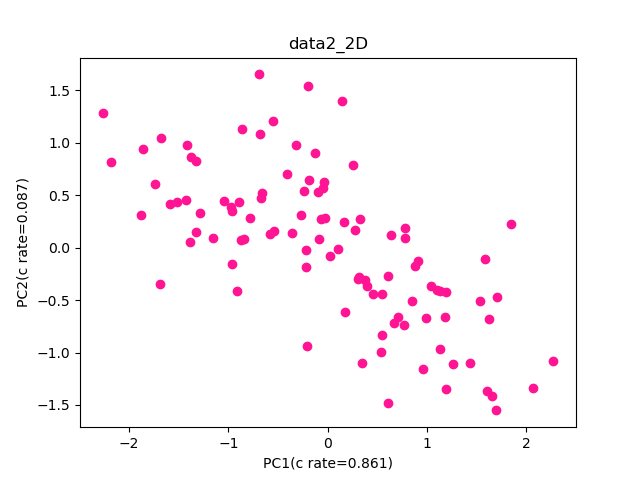
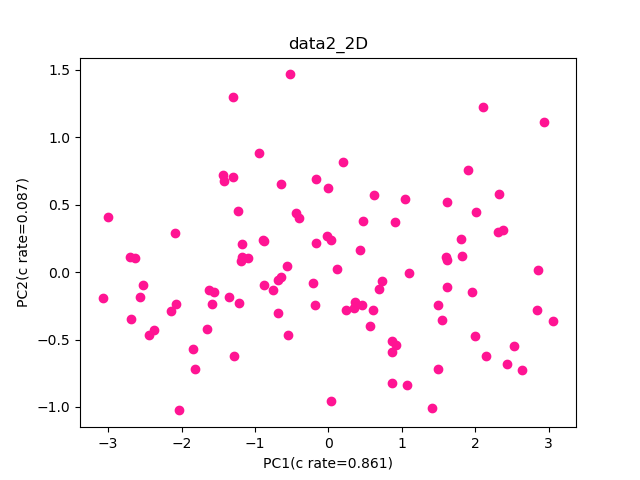
modify eigen

diff --git a/ex6/s_tokida/ex6.py b/ex6/s_tokida/ex6.py
@@ -9,7 +9,7 @@ from PIL import Image
 def pca(data):
     """principal component analysis
     Args:
-        data (pandas.core.frame.DataFrame): imput data
+        data (pandas.core.frame.DataFrame): input data
     Returns:
         eigen_sorted (ndarray): eigenvalue and eigenvector (sorted)
         c_rate (ndarray): contribution rate
@@ -17,20 +17,20 @@ def pca(data):
 
     cov_matrix = np.cov(data.T)
     eigen_val, eigen_vec = np.linalg.eig(cov_matrix)
-    eigen = np.hstack([eigen_val[:, np.newaxis], eigen_vec])
+    eigen = np.hstack([eigen_val[:, np.newaxis], eigen_vec.T])
     # sort by eigen_val
     eigen_sorted = np.array(sorted(eigen, key=lambda x: x[0], reverse=True))
-
+    eigen_vec_sorted = eigen_sorted[:, 1:].T
     # calculate contribution rate
     c_rate = eigen_sorted[:, 0] / sum(eigen_sorted[:, 0])
 
-    return eigen_sorted, c_rate
+    return eigen_vec_sorted, c_rate
 
 
 def render_frame(data, eigen, c_rate, angle, filename):
     """define render frame to make gif
     Args:
-        df (ndarray): imput data
+        df (ndarray): input data
         angle (int): angle
         filename (str): filename
     Returns:
@@ -43,9 +43,9 @@ def render_frame(data, eigen, c_rate, angle, filename):
     x1 = np.linspace(min(data[:, 0]), max(data[:, 0]), data.shape[0])
     eigen_x2 = eigen[1] / eigen[0]
     eigen_x3 = eigen[2] / eigen[0]
-    ax.plot(x1, eigen_x2[1]*x1, eigen_x3[1]*x1, color = 'y', label = f'c rate={c_rate[0]:.3f}')
-    ax.plot(x1, eigen_x2[2]*x1, eigen_x3[2]*x1, color = 'm', label = f'c rate={c_rate[1]:.3f}')
-    ax.plot(x1, eigen_x2[3]*x1, eigen_x3[3]*x1, color = 'c', label = f'c rate={c_rate[2]:.3f}')
+    ax.plot(x1, eigen_x2[0]*x1, eigen_x3[0]*x1, color = 'c', label = f'c rate={c_rate[0]:.3f}')
+    ax.plot(x1, eigen_x2[1]*x1, eigen_x3[1]*x1, color = 'y', label = f'c rate={c_rate[1]:.3f}')
+    ax.plot(x1, eigen_x2[2]*x1, eigen_x3[2]*x1, color = 'm', label = f'c rate={c_rate[2]:.3f}')
 
     ax.view_init(30, angle)
     plt.close()
@@ -88,8 +88,8 @@ def main():
         # ax.quiver(vec_s[0], vec_s[1], eigen[1][1], eigen[1][2], angles='xy', scale_units='xy', scale=1, color = 'pink')
         
         eigen_x2 = eigen[1] / eigen[0]
-        ax.plot(x1, eigen_x2[1]*x1, color = 'c', label = f'c rate={c_rate[0]:.3f}')
-        ax.plot(x1, eigen_x2[2]*x1, color = 'y', label = f'c rate={c_rate[1]:.3f}')
+        ax.plot(x1, eigen_x2[0]*x1, color = 'c', label = f'c rate={c_rate[0]:.3f}')
+        ax.plot(x1, eigen_x2[1]*x1, color = 'y', label = f'c rate={c_rate[1]:.3f}')
         
         plt.legend()
         plt.tight_layout()
@@ -106,9 +106,9 @@ def main():
         x1 = np.linspace(min(data[:, 0]), max(data[:, 0]), data.shape[0])
         eigen_x2 = eigen[1] / eigen[0]
         eigen_x3 = eigen[2] / eigen[0]
-        ax.plot(x1, eigen_x2[1]*x1, eigen_x3[1]*x1, color = 'c', label = f'c rate={c_rate[0]:.3f}')
-        ax.plot(x1, eigen_x2[2]*x1, eigen_x3[2]*x1, color = 'y', label = f'c rate={c_rate[1]:.3f}')
-        ax.plot(x1, eigen_x2[3]*x1, eigen_x3[3]*x1, color = 'm', label = f'c rate={c_rate[2]:.3f}')
+        ax.plot(x1, eigen_x2[0]*x1, eigen_x3[0]*x1, color = 'c', label = f'c rate={c_rate[0]:.3f}')
+        ax.plot(x1, eigen_x2[1]*x1, eigen_x3[1]*x1, color = 'y', label = f'c rate={c_rate[1]:.3f}')
+        ax.plot(x1, eigen_x2[2]*x1, eigen_x3[2]*x1, color = 'm', label = f'c rate={c_rate[2]:.3f}')
 
         plt.legend()
         plt.tight_layout()
@@ -121,7 +121,7 @@ def main():
         # images[0].save('fig/' + f'{filename}_pca.gif', save_all=True, append_images=images[1:], duration=100, loop=0)
 
         # compress 3d data to 2d (using normalized data)
-        w = np.stack([eigen[0][1:], eigen[1][1:]], axis = 1)
+        w = np.stack([eigen.T[0], eigen.T[1]], axis = 1)
         data_pca = data @ w
 
         plt.figure()
@@ -152,7 +152,7 @@ def main():
         plt.plot(np.full(p_rate.shape[0], p_min), y, color = 'y', linestyle = 'dashed', label = f'dim={p_min+1}')
         plt.legend(loc='lower right')
         plt.tight_layout()
-        plt.savefig('cumulative.png')
+        # plt.savefig('fig/' + 'cumulative.png')
         plt.show()
         plt.close()
                 
